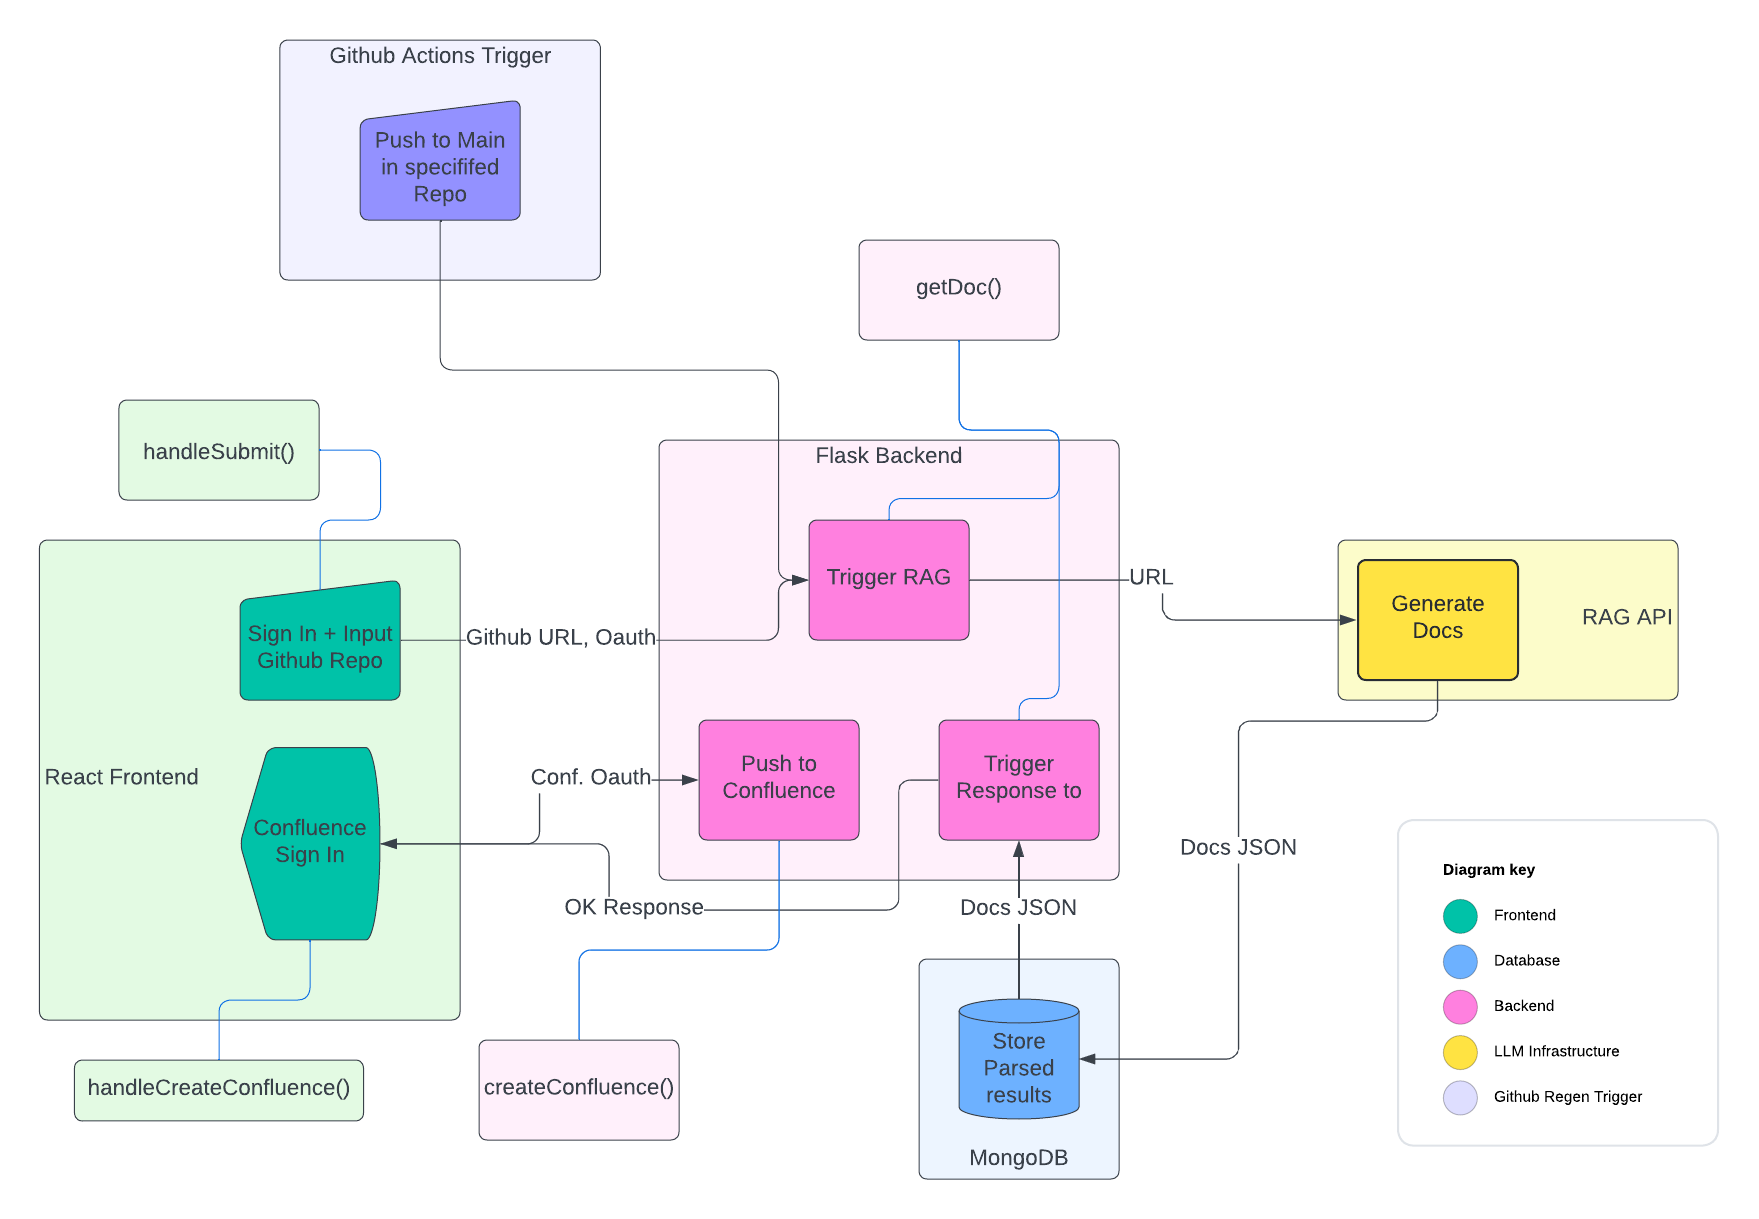
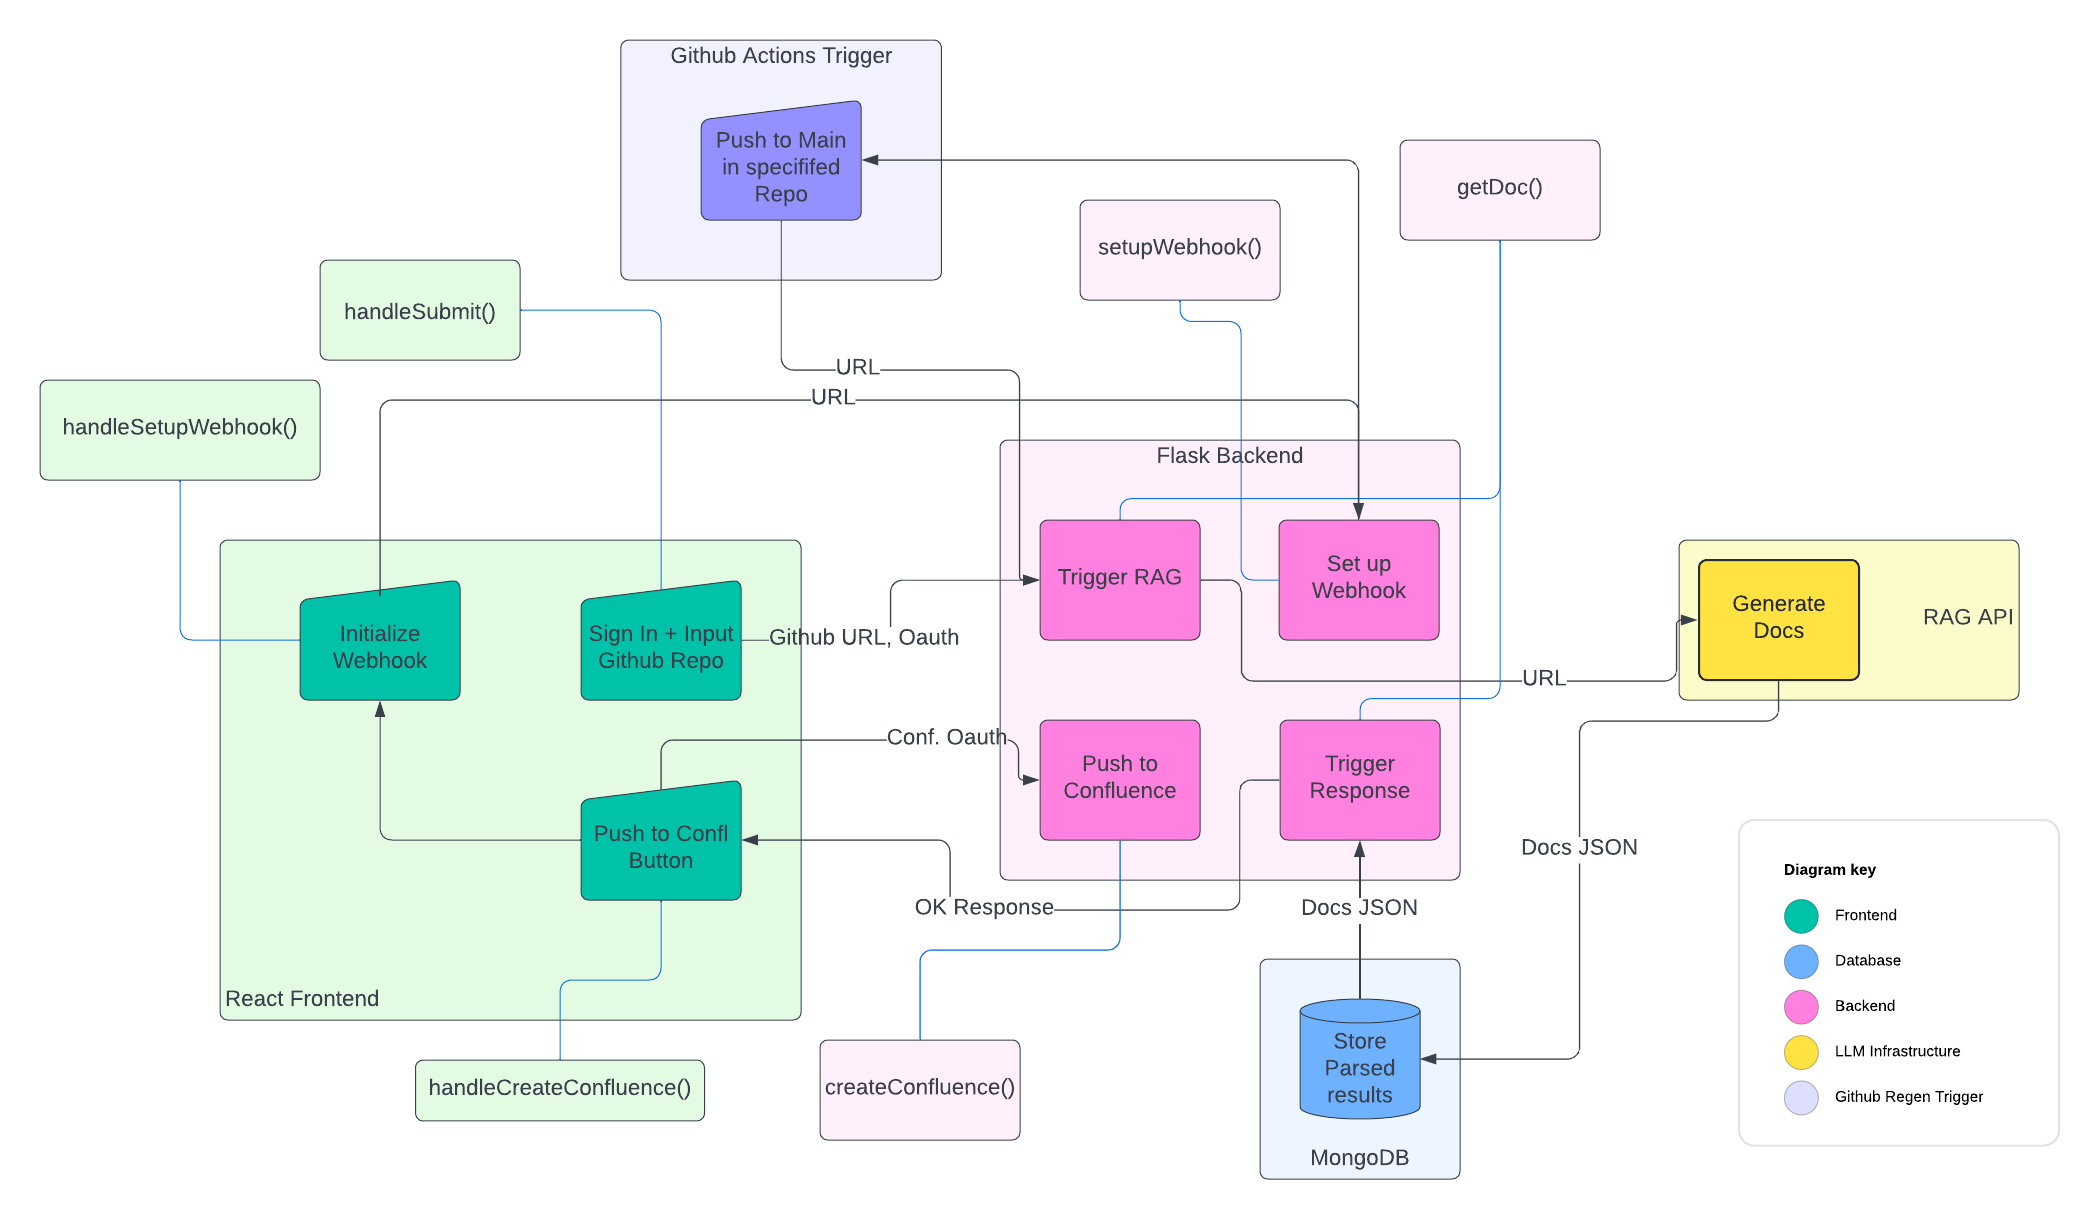
Random Doc / Test Fixes

diff --git a/react-fe/src/__tests__/App.test.js b/react-fe/src/__tests__/App.test.js
@@ -9,25 +9,5 @@ describe('App component', () => {
     const loginButton = getByText('Login with Github: Generate your own project documentation');
     expect(loginButton).toBeInTheDocument();
   });
-
-  test('renders fetch input box if logged in', async () => {
-    // Mocking local storage to simulate logged in state
-    const mockAccessToken = 'mock_access_token';
-    const mockLocalStorage = {
-      getItem: jest.fn().mockImplementation((key) => {
-        if (key === 'accessToken') return mockAccessToken;
-        return null;
-      }),
-      removeItem: jest.fn(),
-    };
-    Object.defineProperty(window, 'localStorage', { value: mockLocalStorage });
-
-    const { getByText, getByPlaceholderText } = render(<App />);
-    const fetchInputBox = getByPlaceholderText('{username}/{repo name}');
-    expect(fetchInputBox).toBeInTheDocument();
-
-    const fetchButton = getByText('Fetch');
-    expect(fetchButton).toBeInTheDocument();
-  });
   
 });

diff --git a/flask-be/test_base.py b/flask-be/test_base.py
@@ -53,7 +53,7 @@ class TestBase(unittest.TestCase):
             response = client.post('/api/create_confluence', json=payload)
             
             # Check the response status code
-            self.assertIn(response.status_code, [200, 500])
+            self.assertIn(response.status_code, [200, 400])
 
 
 if __name__ == '__main__':

diff --git a/README.md b/README.md
@@ -26,7 +26,7 @@ For more detailed descriptions of our design, please visit [our documentation di
 
 ### Description
 
-Our project is web app that, when provided a github link, generates a confluence page describing what the app does based on classes/methods within. The confluence pages shall follow the same file structure as the source code and shall have a one to one mapping. Each page shall describe the source code at the functional level, ensuring that the source code is covered to an acceptable level. The code works on Java, Python, and Javascript targets. 
+Our project is web app that, when provided a github link, generates a confluence page describing what the app does based on classes/methods within. The confluence pages shall follow the same file structure as the source code and shall have a one to one mapping. Each page shall describe the source code at the functional level, ensuring that the source code is covered to an acceptable level. The code works on **Java, Python, and Javascript** targets. 
 
 # Run instructions
 
@@ -36,25 +36,29 @@ Our project is web app that, when provided a github link, generates a confluence
    1. Alternatively, generate a set of tokens from the Github Api and Confluence APIs
 2. Put file token_server.json under path flask-be
    1. Should be in the following format - 
-    `{
+    ```javascript
+    {
       "client_id": "{github API client ID}",
       "client_secret": "{github API client secret}",
       "confluence_client_id": "{confluence API client ID}",
       "confluence_client_secret": "{confluence API client secret}"
-    }`
+    }
+    ```
 3. Put file token_client.json under path react-fe/src
    1. Should be in the following format - 
-    `{
+    ```javascript
+    {
       "client_id": "{github API client ID}",
       "confluence_client_id": "{confluence API client ID}"
-    }`
+    }
+    ```
 
 ## Environment Variables to Make
 1. Install [NGrok](https://ngrok.com/) to your machine
 2. run `ngrok http 5000` and note the forwarding link (i.e. https://{...}.ngrok-free.app)
 3. export the following variables
    1. `export WEBHOOK_SECRET={your NGrok secret}`
-   2. `export WEBHOOK_PAYLOAD_URL={the above URL}/webhook1
+   2. `export WEBHOOK_PAYLOAD_URL={the above URL}/webhook1`
 
 ## Backend
 

diff --git a/documentation/architecture.md b/documentation/architecture.md
@@ -2,9 +2,9 @@
 
 This is a basic overview of our architecture. For specific component definitions, please refer to the the [componentDescriptions folder](https://github.com/dbhatia00/documentation-generation/tree/main/documentation/componentDescriptions).
 
-The approach features a fully distributed system, in which all of the user interaction is handled and packaged by a React frontend and processed by a Flask backend. An image of the architecture is in the first image below below.
+The approach features a fully distributed system, in which all of the user interaction is handled and packaged by a React frontend and processed by a Flask backend. An image of the architecture at a high level is in the first image below below.
 
-For an overview of the key interfaces and the data being passed back and forth, refer to the second image below. 
+For detailed overview of the key interfaces and the data being passed back and forth, refer to the second image below. 
 
 ![Architecture](architecture.png)
 ![Detailed Arch](detailedArch.png)
